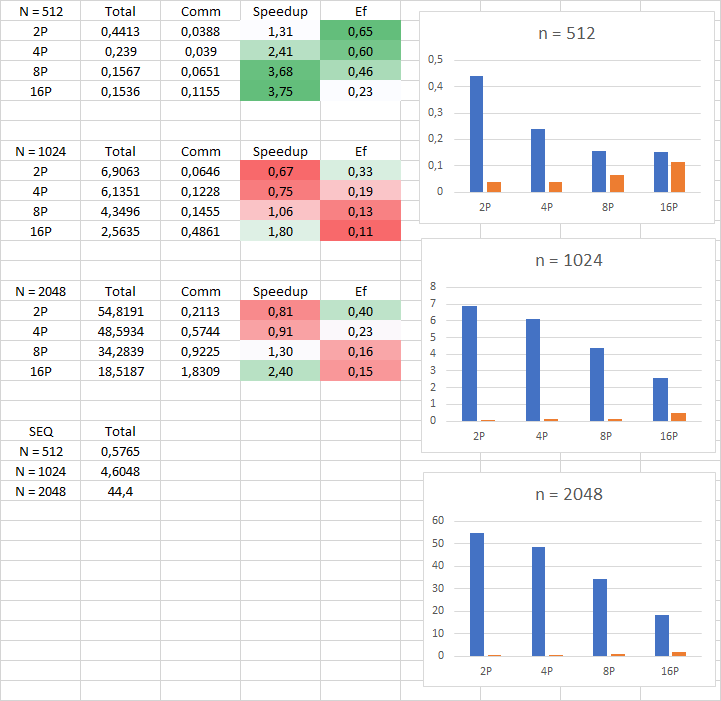
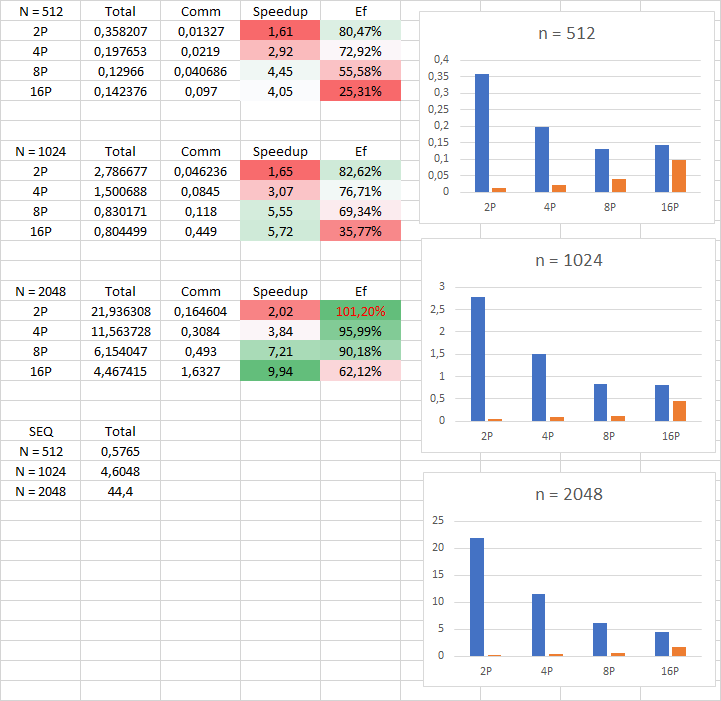
ej 5 corregido

diff --git a/I404 - LIDI/P4 - MPI/ej5/ej5-par.c b/I404 - LIDI/P4 - MPI/ej5/ej5-par.c
@@ -8,9 +8,34 @@
 
 // ------------------ MODULARIZACION -------------------
 
+void blkmul(double *ablk, double *bblk, double *cblk, int n, int bs)
+{
+  int i, j, k;
+
+  for (i = 0; i < bs; i++){
+    for (j = 0; j < bs; j++){
+      for  (k = 0; k < bs; k++){
+        cblk[i*n + j] += ablk[i*n + k] * bblk[j*n + k];
+      }
+    }
+  }
+}
+
 void matmul(double* a, double* b, double* c, int stripSize, int n){
     int i,j,k;
 
+    // version por bloques
+    int bs = 32;
+
+	for (i=0; i<stripSize; i+=bs){
+		for (j=0; j<n; j+=bs){
+			for (k=0; k<n; k+=bs){
+				blkmul(&a[i*n + k], &b[j*n + k], &c[i*n + j], n, bs);
+			}
+		}
+	}
+
+    /*
     for (i=0; i<stripSize; i++) {
 		for (j=0; j<n; j++) {
 			c[i*n+j]=0;	
@@ -21,6 +46,7 @@ void matmul(double* a, double* b, double* c, int stripSize, int n){
 			}
 		}
 	}
+    */
 }
 
 void matsum(double *a, double *b, double *c, double *res, int stripSize, int n){
@@ -41,7 +67,7 @@ int main(int argc, char* argv[]){
     int i, j, k, numProcs, rank, n, stripSize, check=1;
 	double *a, *b, *c, *d, *e, *f, *r1, *r2, *r3, *rf;
 	MPI_Status status;
-	double commTimes[4], maxCommTimes[4], minCommTimes[4], commTime, totalTime;
+	double commTimes[4], commTime, totalTime;
 
 	/* Leer argumentos */
 	if ((argc != 2) || ((n = atoi(argv[1])) <= 0) ) {
@@ -99,7 +125,7 @@ int main(int argc, char* argv[]){
     MPI_Barrier(MPI_COMM_WORLD);
 
     // tiempo 0 = arranque de las comunicaciones
-	commTimes[0] = MPI_Wtime();
+	if (rank == COORDINATOR) commTimes[0] = MPI_Wtime();
 
     // ------------------------- TRABAJO ---------------------------------
 
@@ -114,21 +140,17 @@ int main(int argc, char* argv[]){
     MPI_Bcast(f, n*n, MPI_DOUBLE, COORDINATOR, MPI_COMM_WORLD);
 
     // computo paralelo
-    commTimes[1] = MPI_Wtime();
+    if (rank == COORDINATOR) commTimes[1] = MPI_Wtime();
     matmul(a, b, r1, stripSize, n);
     matmul(c, d, r2, stripSize, n);
     matmul(e, f, r3, stripSize, n);
     matsum(r1, r2, r3, rf, stripSize, n);
-    commTimes[2] = MPI_Wtime();
+    if (rank == COORDINATOR) commTimes[2] = MPI_Wtime();
 
     // recolectar suma
     MPI_Gather(rf, n*stripSize, MPI_DOUBLE, rf, n*stripSize, MPI_DOUBLE, COORDINATOR, MPI_COMM_WORLD);
-
-    commTimes[3] = MPI_Wtime();
-
-    // esto es para medidas de tiempo
-	MPI_Reduce(commTimes, minCommTimes, 4, MPI_DOUBLE, MPI_MIN, COORDINATOR, MPI_COMM_WORLD);
-	MPI_Reduce(commTimes, maxCommTimes, 4, MPI_DOUBLE, MPI_MAX, COORDINATOR, MPI_COMM_WORLD);
+    MPI_Barrier(MPI_COMM_WORLD);
+    if (rank == COORDINATOR) commTimes[3] = MPI_Wtime();
 
     MPI_Finalize();
 
@@ -145,8 +167,8 @@ int main(int argc, char* argv[]){
 		else printf("Multiplicacion de matrices resultado erroneo\n");
 
         // total time
-        totalTime = maxCommTimes[3] - minCommTimes[0];
-        commTime = (maxCommTimes[1] - minCommTimes[0]) + (maxCommTimes[3] - minCommTimes[2]);
+        totalTime = commTimes[3] - commTimes[0];
+        commTime = (commTimes[1] - commTimes[0]) + (commTimes[3] - commTimes[2]);
 
         printf("Multiplicacion (N=%d)\tTiempo total=%lf\tTiempo comm=%lf\n",n,totalTime,commTime);
 	}

diff --git a/I404 - LIDI/P4 - MPI/ej4/ej4_anterior.c b/I404 - LIDI/P4 - MPI/ej4/ej4_anterior.c
@@ -1,0 +1,107 @@
+#include <stdio.h>
+#include <stdlib.h>
+#include <mpi.h>
+
+#define COORDINATOR 0
+
+// ------------------------------------------------------------------------------
+
+int main(int argc, char* argv[]){
+	int i, j, k, numProcs, rank, n, stripSize, check=1;
+	double * a, * b, *c;
+	MPI_Status status;
+	double commTimes[4], commTime, totalTime;
+
+	/* Lee par�metros de la l�nea de comando */
+	if ((argc != 2) || ((n = atoi(argv[1])) <= 0) ) {
+	    printf("\nUsar: %s size \n  size: Dimension de la matriz y el vector\n", argv[0]);
+		exit(1);
+	}
+
+	MPI_Init(&argc,&argv);
+
+	MPI_Comm_size(MPI_COMM_WORLD,&numProcs);
+	MPI_Comm_rank(MPI_COMM_WORLD,&rank);
+
+	if (n % numProcs != 0) {
+		printf("El tama�o de la matriz debe ser multiplo del numero de procesos.\n");
+		exit(1);
+	}
+
+	// calcular porcion de cada worker
+	stripSize = n / numProcs;
+
+	// Reservar memoria
+	// el master maneja matrices de NxN, mientras los workers de NxM (M = porción de N)
+	if (rank == COORDINATOR) {
+		a = (double*) malloc(sizeof(double)*n*n);
+		c = (double*) malloc(sizeof(double)*n*n);
+	}
+	else  {
+		a = (double*) malloc(sizeof(double)*n*stripSize);
+		c = (double*) malloc(sizeof(double)*n*stripSize);
+	}
+	
+	// B es de NxN para todos los procesos
+	b = (double*) malloc(sizeof(double)*n*n);
+
+
+	// inicializar datos (solo lo realiza el proceso master)
+	if (rank == COORDINATOR) {
+		for (i=0; i<n ; i++)
+			for (j=0; j<n ; j++)
+				a[i*n+j] = 1;			// por filas: a[i][j] = a[i*n+j]
+		for (i=0; i<n ; i++)
+			for (j=0; j<n ; j++)
+				b[i*n+j] = 1;			// también por filas
+
+	}
+
+	// No permito que los workers avancen hasta que el master inicialice A y B
+	MPI_Barrier(MPI_COMM_WORLD);
+
+	if (rank == COORDINATOR) commTimes[0] = MPI_Wtime();
+	MPI_Scatter(a, stripSize*n, MPI_DOUBLE, a, stripSize*n, MPI_DOUBLE, COORDINATOR, MPI_COMM_WORLD);
+	MPI_Bcast(b, n*n, MPI_DOUBLE, COORDINATOR, MPI_COMM_WORLD);
+	if (rank == COORDINATOR) commTimes[1] = MPI_Wtime();
+
+	/* computar multiplicacion parcial */
+	
+	for (i=0; i<stripSize; i++) {
+		for (j=0; j<n; j++) {
+			c[i*n+j]=0;					
+			for (k=0; k<n; k++) { 
+				c[i*n+j] += (a[i*n+k]*b[j*n+k]); 
+			}
+		}
+	}
+	
+	if (rank == COORDINATOR) commTimes[2] = MPI_Wtime();
+	MPI_Gather(c, n*stripSize, MPI_DOUBLE, c, n*stripSize, MPI_DOUBLE, COORDINATOR, MPI_COMM_WORLD);
+	MPI_Barrier(MPI_COMM_WORLD);
+	if (rank == COORDINATOR) commTimes[3] = MPI_Wtime();
+
+	MPI_Finalize();
+
+	if (rank==COORDINATOR) {
+
+		// Check results
+		for(i=0;i<n;i++)
+			for(j=0;j<n;j++)
+				check=check&&(c[i*n+j]==n);
+
+		if(check) printf("Multiplicacion de matrices resultado correcto\n");
+		else printf("Multiplicacion de matrices resultado erroneo\n");
+		
+		totalTime = commTimes[3] - commTimes[0];
+		commTime = (commTimes[1] - commTimes[0]) + (commTimes[3] - commTimes[2]);		
+
+		printf("Multiplicacion de matrices (N=%d)\tTiempo total=%lf\tTiempo comunicacion=%lf\n",n,totalTime,commTime);
+	}
+	
+	free(a);
+	free(b);
+	free(c);
+
+	return 0;
+}
